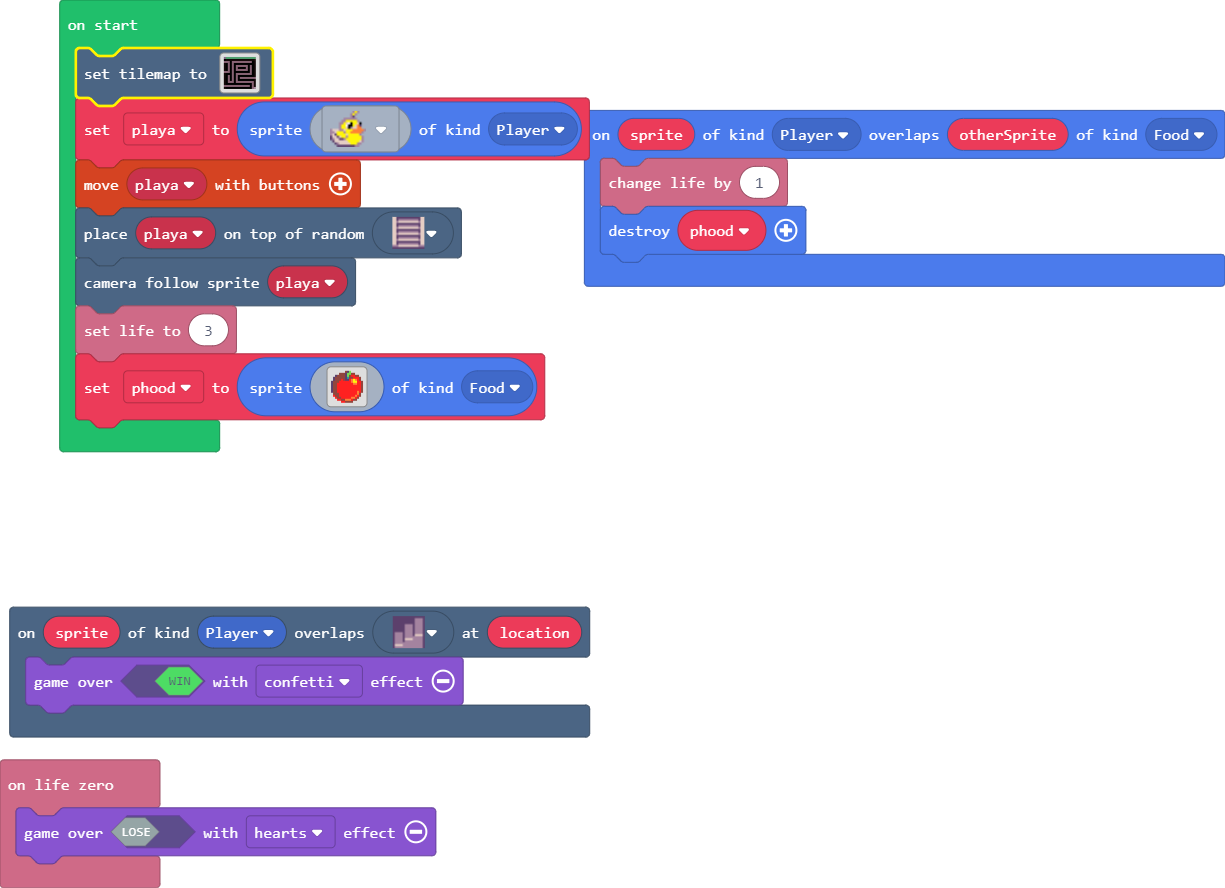
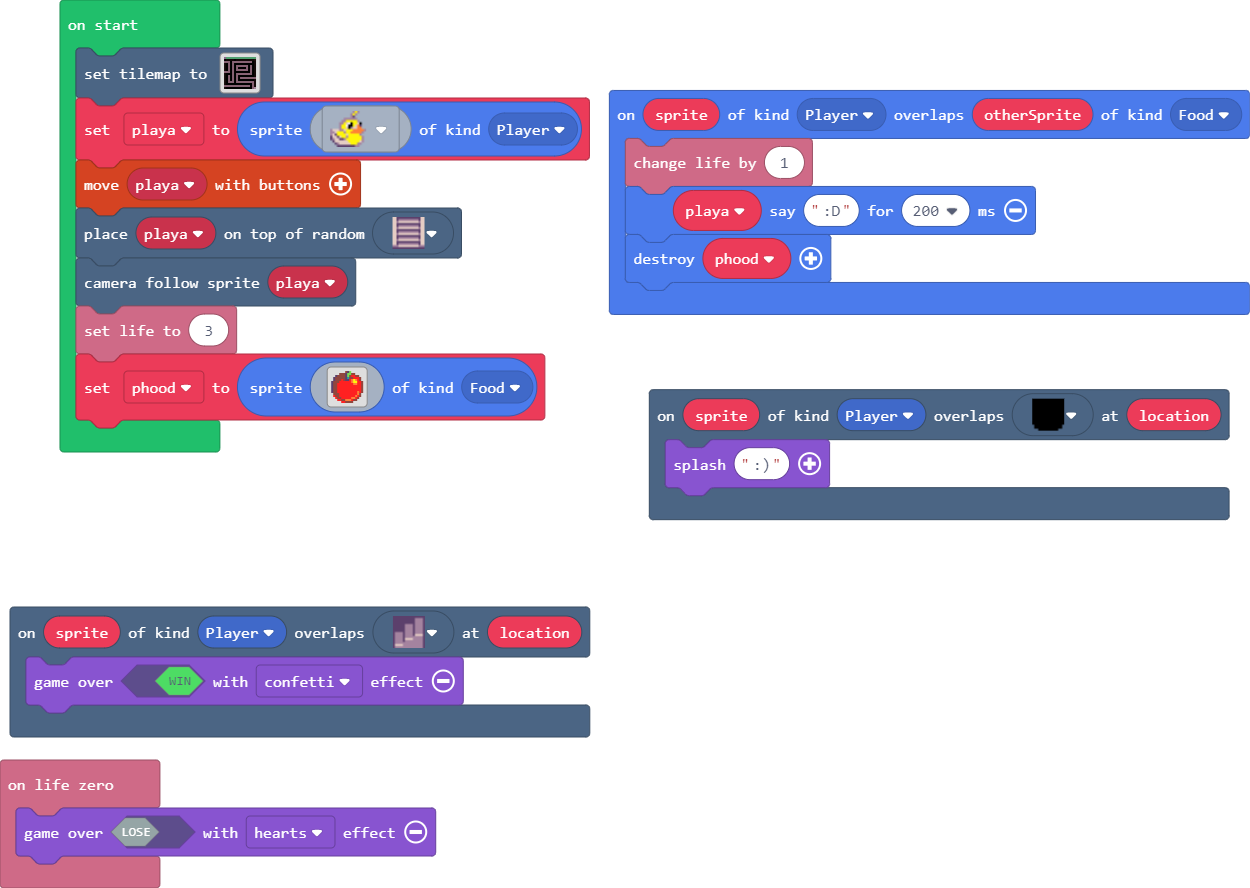
nbnvbnvbn

diff --git a/main.ts b/main.ts
@@ -19,8 +19,12 @@ namespace myTiles {
 . . . . . . . . . . . . . . . . 
 `
 }
+scene.onOverlapTile(SpriteKind.Player, sprites.builtin.forestTiles14, function (sprite, location) {
+    game.splash(":)")
+})
 sprites.onOverlap(SpriteKind.Player, SpriteKind.Food, function (sprite, otherSprite) {
     info.changeLifeBy(1)
+    playa.say(":D", 200)
     phood.destroy()
 })
 scene.onOverlapTile(SpriteKind.Player, sprites.dungeon.stairLarge, function (sprite, location) {
@@ -30,8 +34,9 @@ info.onLifeZero(function () {
     game.over(false, effects.hearts)
 })
 let phood: Sprite = null
+let playa: Sprite = null
 tiles.setTilemap(tiles.createTilemap(
[2 lines of base64/hex data omitted]
             img`
 . 2 2 2 2 2 2 2 2 2 2 2 2 2 2 2 
 . . . . 2 . . . . . . . . . . 2 
@@ -50,10 +55,10 @@ tiles.setTilemap(tiles.createTilemap(
 2 2 2 2 2 2 2 2 2 2 2 2 2 . 2 . 
 2 . . . . . . . . . . . . . 2 . 
 `,
-            [myTiles.tile0,sprites.dungeon.stairLarge,sprites.dungeon.stairNorth,sprites.builtin.forestTiles6,sprites.builtin.forestTiles9,sprites.builtin.forestTiles10,sprites.builtin.forestTiles7,sprites.builtin.forestTiles11,sprites.builtin.forestTiles8,sprites.builtin.forestTiles12,sprites.builtin.forestTiles1,sprites.builtin.forestTiles29,sprites.builtin.forestTiles27,sprites.builtin.forestTiles24,sprites.builtin.forestTiles20,sprites.builtin.forestTiles18,sprites.builtin.forestTiles19,sprites.builtin.forestTiles17,sprites.builtin.forestTiles26],
+            [myTiles.tile0,sprites.dungeon.stairLarge,sprites.dungeon.stairNorth,sprites.builtin.forestTiles6,sprites.builtin.forestTiles9,sprites.builtin.forestTiles10,sprites.builtin.forestTiles7,sprites.builtin.forestTiles11,sprites.builtin.forestTiles8,sprites.builtin.forestTiles12,sprites.builtin.forestTiles1,sprites.builtin.forestTiles29,sprites.builtin.forestTiles27,sprites.builtin.forestTiles24,sprites.builtin.forestTiles20,sprites.builtin.forestTiles18,sprites.builtin.forestTiles19,sprites.builtin.forestTiles17,sprites.builtin.forestTiles26,sprites.dungeon.hazardHole,sprites.builtin.oceanDepths9,sprites.builtin.oceanDepths10,sprites.builtin.forestTiles14],
             TileScale.Sixteen
         ))
-let playa = sprites.create(sprites.duck.duck3, SpriteKind.Player)
+playa = sprites.create(sprites.duck.duck3, SpriteKind.Player)
 controller.moveSprite(playa)
 tiles.placeOnRandomTile(playa, sprites.dungeon.stairNorth)
 scene.cameraFollowSprite(playa)
